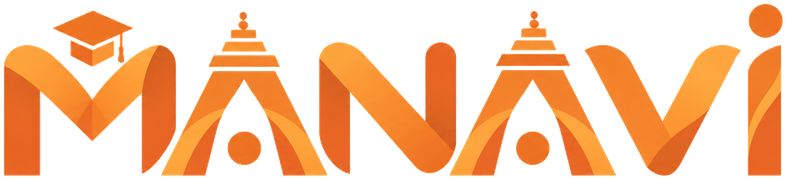
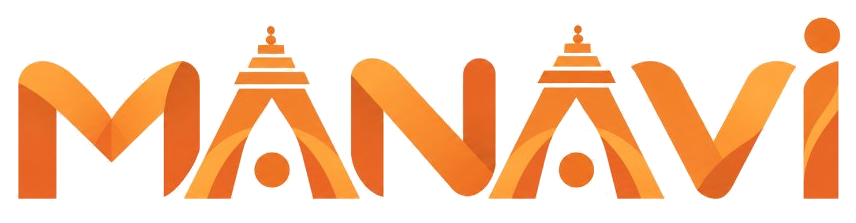
changes to ui

diff --git a/src/app/events/page.tsx b/src/app/events/page.tsx
@@ -2,27 +2,30 @@
 
 import Link from "next/link";
 import { useState } from "react";
-import { IconPlus } from "@tabler/icons-react";
+import { IconCalendarEvent, IconHistory, IconPlus } from "@tabler/icons-react";
 import { api } from "@/lib/api";
 import { useAuth } from "@/lib/auth";
 import { useApi } from "@/lib/useApi";
-import { PageHeader } from "@/components/layout/PageHeader";
 import { EventCard } from "@/components/cards";
 import { Pagination } from "@/components/ui/Pagination";
 import { Empty, ErrorBox, Loading } from "@/components/ui/States";
-import { FilterChips, SearchInput, Toolbar } from "@/components/ui/Toolbar";
+import { Tabs } from "@/components/ui/Tabs";
+import { SearchInput } from "@/components/ui/Toolbar";
 import { btnPrimary, pageMediumCls } from "@/components/ui/styles";
-
-const WHEN = [
-  { id: "upcoming", label: "Upcoming" },
-  { id: "past", label: "Past" },
-] as const;
 
 export default function EventsPage() {
   const { user } = useAuth();
   const [when, setWhen] = useState<"upcoming" | "past">("upcoming");
   const [search, setSearch] = useState("");
   const [page, setPage] = useState(1);
+
+  const totals = useApi(async () => {
+    const [up, past] = await Promise.all([
+      api.events.list({ type: "upcoming", limit: 1 }),
+      api.events.list({ type: "past", limit: 1 }),
+    ]);
+    return { upcoming: up.total, past: past.total };
+  }, [user?.id]);
 
   const { data, error, loading, reload } = useApi(
     () => api.events.list({ type: when, search, page, limit: 10 }),
@@ -31,22 +34,37 @@ export default function EventsPage() {
 
   return (
     <div className={pageMediumCls}>
-      <PageHeader
-        tag="Events"
-        title="Events"
-        description="Reunions, chapter meetups and campus days."
-        action={
-          <Link href="/events/new" className={btnPrimary}>
+      <div className="flex flex-wrap items-center justify-between gap-3 pt-2">
+        <Tabs
+          idBase="events"
+          label="Events timeline"
+          value={when}
+          onChange={(v) => {
+            setWhen(v);
+            setPage(1);
+          }}
+          tabs={[
+            { id: "upcoming", label: "Upcoming", icon: IconCalendarEvent, count: totals.data?.upcoming },
+            { id: "past", label: "Past", icon: IconHistory, count: totals.data?.past },
+          ]}
+        />
+
+        <div className="flex items-center gap-2.5 ml-auto w-full sm:w-auto">
+          <SearchInput
+            className="w-full sm:w-56 lg:w-64"
+            value={search}
+            onChange={(v) => {
+              setSearch(v);
+              setPage(1);
+            }}
+            placeholder="Search events by title"
+          />
+          <Link href="/events/new" className={`${btnPrimary} shrink-0`}>
             <IconPlus size={15} stroke={1.6} />
             Host an event
           </Link>
-        }
-      />
-
-      <Toolbar>
-        <FilterChips options={WHEN} value={when} onChange={(v) => { setWhen(v); setPage(1); }} />
-        <SearchInput value={search} onChange={(v) => { setSearch(v); setPage(1); }} placeholder="Search events by title" />
-      </Toolbar>
+        </div>
+      </div>
 
       <div className="space-y-3.5 stagger">
         {loading ? (
@@ -58,7 +76,7 @@ export default function EventsPage() {
             title={when === "upcoming" ? "No upcoming events" : "No past events"}
             action={when === "upcoming" && <Link href="/events/new" className={btnPrimary}>Host one</Link>}
           >
-            {search ? "Nothing matches that search." : undefined}
+            {search ? "Nothing matches that search." : when === "upcoming" ? "Plan a reunion or chapter meetup for fellow alumni." : undefined}
           </Empty>
         ) : (
           <>

diff --git a/src/components/ui/Toolbar.tsx b/src/components/ui/Toolbar.tsx
@@ -32,7 +32,7 @@ export function SearchInput({
   value,
   onChange,
   placeholder,
-  className = "w-full sm:w-72",
+  className = "w-full sm:w-60",
 }: {
   value: string;
   onChange: (value: string) => void;
@@ -120,7 +120,7 @@ export function SearchInput({
 
   return (
     <div className={`relative min-w-0 shrink-0 ${className}`}>
-      <IconSearch size={16} stroke={1.6} className="absolute left-3.5 top-1/2 -translate-y-1/2 text-zinc-400 pointer-events-none" />
+      <IconSearch size={15} stroke={1.6} className="absolute left-2.5 top-1/2 -translate-y-1/2 text-zinc-400 pointer-events-none" />
       <input
         ref={inputRef}
         data-search
@@ -146,7 +146,7 @@ export function SearchInput({
           setCursor(-1);
         }}
         onKeyDown={onKeyDown}
-        className="w-full pl-10 pr-11 py-2.5 text-base sm:text-sm bg-zinc-100/80 hover:bg-zinc-100 focus:bg-white border border-transparent focus:border-orange-300 focus:shadow-focus rounded-xl outline-none transition-[background-color,border-color,box-shadow] duration-150 placeholder:text-zinc-400 [&::-webkit-search-cancel-button]:appearance-none"
+        className="w-full h-[34px] pl-8 pr-8 py-1.5 text-xs bg-zinc-50 hover:bg-zinc-100/70 focus:bg-white border border-zinc-200 focus:border-orange-400 focus:shadow-focus rounded-lg outline-none transition-[background-color,border-color,box-shadow] duration-150 placeholder:text-zinc-400 [&::-webkit-search-cancel-button]:appearance-none"
       />
       <div className="absolute right-2 top-1/2 -translate-y-1/2 flex items-center">
         {text && (
@@ -156,9 +156,9 @@ export function SearchInput({
             onClick={clear}
             data-tip="Clear"
             aria-label="Clear search"
-            className="animate-pop-in w-6 h-6 inline-flex items-center justify-center rounded-full bg-zinc-300/80 hover:bg-zinc-400/80 text-white transition-colors"
+            className="animate-pop-in w-4.5 h-4.5 inline-flex items-center justify-center rounded-full bg-zinc-300 hover:bg-zinc-400 text-white transition-colors"
           >
-            <IconX size={14} stroke={2} />
+            <IconX size={11} stroke={2} />
           </button>
         )}
       </div>
@@ -166,7 +166,7 @@ export function SearchInput({
       {showRecent && (
         <div
           onMouseDown={(e) => e.preventDefault()}
-          className="absolute z-30 left-0 right-0 mt-2 origin-top bg-white border border-zinc-200/70 rounded-2xl shadow-dropdown p-2 animate-pop-in"
+          className="absolute z-30 left-0 right-0 mt-1.5 origin-top bg-white border border-zinc-200/70 rounded-xl shadow-dropdown p-2 animate-pop-in"
         >
           <div className="flex items-center justify-between px-2 pt-1 pb-2">
             <span className="text-xs font-semibold text-zinc-900">Recent</span>

diff --git a/src/components/layout/Navbar.tsx b/src/components/layout/Navbar.tsx
@@ -20,9 +20,9 @@ import { IconTile } from "@/components/ui/IconTile";
 import { AUTH_ROUTES, MORE_NAV, PRIMARY_NAV, isActive } from "./nav";
 
 const linkCls = (active: boolean) =>
-  `inline-flex items-center gap-1.5 px-3.5 py-1.5 rounded-full text-xs font-medium transition-all duration-500 ease-out active:scale-95 ${
+  `inline-flex items-center gap-1.5 px-3.5 py-1.5 rounded-full text-xs font-medium transition-colors duration-200 active:scale-95 ${
     active
-      ? "text-orange-800 bg-gradient-to-r from-orange-100 to-amber-50 font-semibold border border-orange-200/70 shadow-xs"
+      ? "text-orange-800 bg-orange-50 font-semibold border border-orange-200/80 shadow-xs"
       : "text-zinc-600 hover:text-zinc-900 hover:bg-zinc-100 border border-transparent"
   }`;
 
@@ -84,9 +84,18 @@ export function Navbar() {
             </button>
           </div>
 
-          <Link href="/" className="block" aria-label="MANAVI home">
+          <Link href="/" className="flex flex-col items-center justify-center group py-0.5" aria-label="MANAVI home">
             {/* eslint-disable-next-line @next/next/no-img-element */}
-            <img src="/brand/manavi-wordmark.png" alt="MANAVI" width={787} height={180} className="h-6 sm:h-8 lg:h-10 w-auto" />
+            <img
+              src="/brand/manavi-wordmark.png"
+              alt="MANAVI"
+              width={856}
+              height={223}
+              className="h-5 sm:h-6 lg:h-7 w-auto object-contain transition-transform duration-300 group-hover:scale-105"
+            />
+            <span className="font-['Caveat',cursive] text-sm sm:text-base text-zinc-500 group-hover:text-orange-600 transition-colors select-none leading-none -mt-1 font-semibold tracking-wide">
+              our tribe
+            </span>
           </Link>
 
           <div className="flex items-center justify-end gap-2 min-w-0">

diff --git a/src/components/ui/styles.ts b/src/components/ui/styles.ts
@@ -13,7 +13,7 @@ export const selectCls =
 export const labelCls = "block text-xs font-medium text-zinc-700 mb-1.5";
 
 export const btnPrimary =
-  "btn-press inline-flex items-center justify-center gap-1.5 px-4 py-2 text-xs font-semibold text-white bg-gradient-to-b from-orange-500 to-orange-600 hover:from-orange-500 hover:to-orange-700 rounded-lg shadow-[inset_0_1px_0_rgba(255,255,255,0.18),0_1px_2px_rgba(154,52,18,0.25)] shrink-0 disabled:opacity-60 disabled:pointer-events-none";
+  "btn-press inline-flex items-center justify-center gap-1.5 px-4 py-2 text-xs font-semibold text-white bg-orange-600 hover:bg-orange-700 rounded-lg shadow-xs shrink-0 disabled:opacity-60 disabled:pointer-events-none";
 
 export const btnSecondary =
   "btn-press inline-flex items-center justify-center gap-1.5 px-3.5 py-2 text-xs font-medium text-zinc-700 bg-white hover:bg-zinc-50 rounded-lg border border-zinc-200 shadow-xs shrink-0 disabled:opacity-60 disabled:pointer-events-none";
@@ -28,7 +28,7 @@ export const btnIcon =
 export const chipCls = (active: boolean) =>
   `chip-press inline-flex items-center gap-1.5 pl-3 pr-3.5 py-1.5 rounded-full text-xs font-medium transition-colors shrink-0 border ${
     active
-      ? "bg-gradient-to-r from-orange-100 to-amber-50 text-orange-800 border-orange-200/80 shadow-xs"
+      ? "bg-orange-50 text-orange-800 border-orange-200/80 shadow-xs"
       : "bg-white text-zinc-600 hover:text-zinc-900 border-zinc-200 hover:bg-zinc-50"
   }`;
 

diff --git a/src/components/layout/AuthShell.tsx b/src/components/layout/AuthShell.tsx
@@ -17,9 +17,18 @@ export function AuthShell({
   return (
     <div className="min-h-screen flex flex-col justify-center items-center px-4 py-12 bg-[#f4f4f5] animate-fade-in">
       <div className="text-center mb-8">
-        <Link href="/" className="inline-block" aria-label="MANAVI home">
+        <Link href="/" className="inline-flex flex-col items-center group" aria-label="MANAVI home">
           {/* eslint-disable-next-line @next/next/no-img-element */}
-          <img src="/brand/manavi-wordmark.png" alt="MANAVI" width={787} height={180} className="h-10 sm:h-12 w-auto" />
+          <img
+            src="/brand/manavi-wordmark.png"
+            alt="MANAVI"
+            width={856}
+            height={223}
+            className="h-8 sm:h-9 w-auto object-contain transition-transform duration-300 group-hover:scale-105"
+          />
+          <span className="font-['Caveat',cursive] text-base sm:text-lg text-zinc-500 group-hover:text-orange-600 transition-colors select-none leading-none -mt-0.5 font-semibold tracking-wide">
+            our tribe
+          </span>
         </Link>
         <p className="text-xs text-zinc-500 mt-2 font-mono">Navodaya Alumni Community</p>
       </div>

diff --git a/src/app/page.tsx b/src/app/page.tsx
@@ -40,12 +40,12 @@ export default function HomePage() {
   return (
     <div className={pageCls}>
       <PageHeader
-        title={user ? `Welcome back, ${user.name.split(" ")[0]}` : "MANAVI Alumni Community"}
-        description="What's new across the community this week."
+        title={user ? "Community feed" : "MANAVI alumni community"}
+        description="Stories, campus news, and community milestones"
         action={
-          <Link href="/stories/new" className={btnPrimary}>
+          <Link href="/updates/new" className={btnPrimary}>
             <IconPlus size={15} stroke={1.6} />
-            Share a story
+            Share an update
           </Link>
         }
       />
@@ -117,8 +117,8 @@ export default function HomePage() {
             <Empty
               title="Nothing posted yet"
               action={
-                <Link href="/stories/new" className={btnPrimary}>
-                  Write the first story
+                <Link href="/updates/new" className={btnPrimary}>
+                  Share the first update
                 </Link>
               }
             />

diff --git a/src/app/updates/page.tsx b/src/app/updates/page.tsx
@@ -187,9 +187,16 @@ export default function UpdatesPage() {
           ]}
         />
         <div className="flex items-center gap-2.5 ml-auto w-full sm:w-auto">
-          <div className="w-full sm:w-56 lg:w-72 p-1 bg-white border border-zinc-200/70 rounded-2xl shadow-card">
-            <SearchInput key={section} className="w-full" value={search} onChange={(v) => { setSearch(v); setCount(STEP); }} placeholder={copy.search} />
-          </div>
+          <SearchInput
+            key={section}
+            className="w-full sm:w-56 lg:w-64"
+            value={search}
+            onChange={(v) => {
+              setSearch(v);
+              setCount(STEP);
+            }}
+            placeholder={copy.search}
+          />
           <Link
             href={section === "news" ? "/updates/new?type=news" : "/updates/new"}
             className={`${btnPrimary} shrink-0`}

diff --git a/src/app/career/page.tsx b/src/app/career/page.tsx
@@ -65,9 +65,7 @@ export default function CareerPage() {
           ]}
         />
         <div className="flex items-center gap-2.5 ml-auto w-full sm:w-auto">
-          <div className="w-full sm:w-56 lg:w-72 p-1 bg-white border border-zinc-200/70 rounded-2xl shadow-card">
-            <SearchInput className="w-full" value={search} onChange={onSearch} placeholder="Search jobs" />
-          </div>
+          <SearchInput className="w-full sm:w-56 lg:w-64" value={search} onChange={onSearch} placeholder="Search jobs" />
           <Link
             href={tab === "references" ? "/career/new?template=referral" : "/career/new"}
             className={`${btnPrimary} shrink-0`}

diff --git a/src/components/ui/Tabs.tsx b/src/components/ui/Tabs.tsx
@@ -57,7 +57,7 @@ export function Tabs<T extends string>({
               onKeyDown={(e) => onKeyDown(e, i)}
               className={`chip-press inline-flex items-center gap-1.5 px-3.5 py-1.5 rounded-xl text-xs font-medium whitespace-nowrap transition-colors ${
                 active
-                  ? "bg-gradient-to-r from-orange-100 to-amber-50 text-orange-800 font-semibold border border-orange-200/70 shadow-xs"
+                  ? "bg-orange-50 text-orange-800 font-semibold border border-orange-200/80 shadow-xs"
                   : "text-zinc-600 hover:text-zinc-900 hover:bg-zinc-100/70"
               }`}
             >

diff --git a/src/app/layout.tsx b/src/app/layout.tsx
@@ -31,7 +31,7 @@ export default function RootLayout({
         <link rel="preconnect" href="https://fonts.googleapis.com" />
         <link rel="preconnect" href="https://fonts.gstatic.com" crossOrigin="anonymous" />
         <link
-          href="https://fonts.googleapis.com/css2?family=Public+Sans:wght@400;500;600&family=JetBrains+Mono:wght@400;500&display=swap"
+          href="https://fonts.googleapis.com/css2?family=Caveat:wght@500;600;700&family=Public+Sans:wght@400;500;600&family=JetBrains+Mono:wght@400;500&display=swap"
           rel="stylesheet"
         />
       </head>
